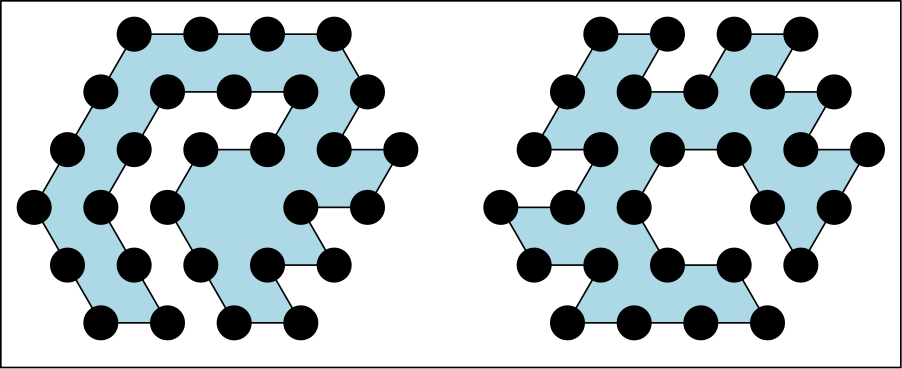
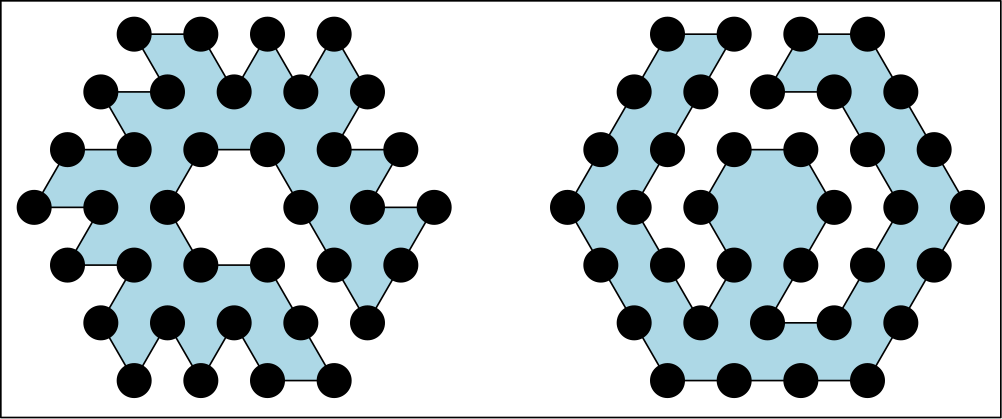
fix wrong thought about even-odd

diff --git a/_posts/2017-06-17-hampath.md b/_posts/2017-06-17-hampath.md
@@ -119,18 +119,14 @@ below:
 
 <img src="/images/hampath/triangular_hole_graph.png" style="max-height: 400px">
 
-Unfortunately, the property does not hold on all such graphs. In this example:
+Unfortunately, the property does not hold on all such graphs. It is possible for
+the missing vertex to be inside or outside the shape enclosed by the Hamiltonian
+Cycle.  These two scenarios lead to different amounts of enclosed space. In the
+following example, the cycle on the left encloses 34 triangles and the cycle on
+the right encloses 36 triangles.
 
 <img src="/images/hampath/triangular_hole.png" style="max-height: 400px">
 
-There seems to some kind of even/odd issue related to the distance from the
-missing vertex to the perimeter. If all paths in a single direction reach the
-perimeter have even length or all have odd length, then the property seems to
-still hold. However if both even and odd length paths exist then the missing
-vertex might be inside or outside the shape enclosed by the Hamiltonian Cycle.
-These two scenarios lead to different amounts of enclosed space. In the above
-example, the cycle on the left encloses 29 triangles and the cycle on the right
-encloses 27 triangles.
 
 How Much is Enclosed
 ====================
